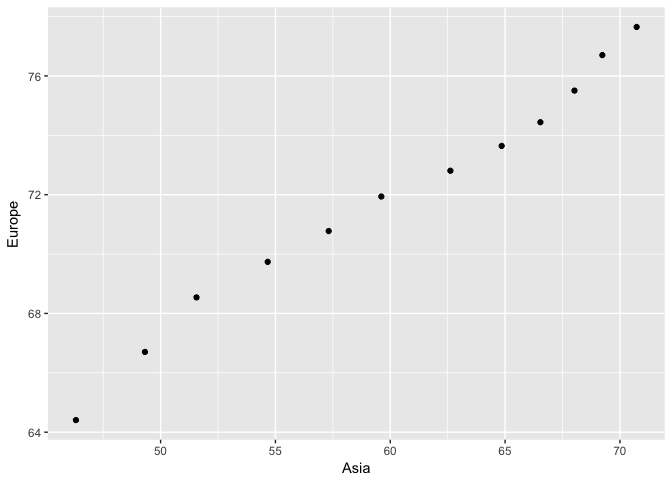
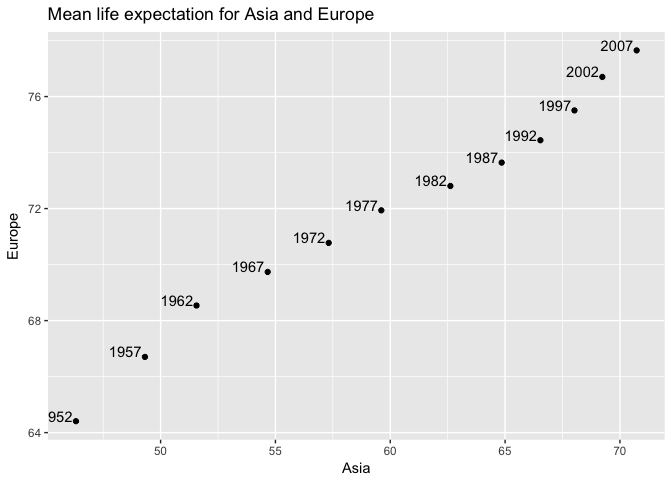
some change

diff --git a/hw04/hw04.md b/hw04/hw04.md
@@ -144,7 +144,7 @@ Is there a plot that is easier to make with the data in this shape versis the us
 
 ``` r
 out1%>%
-  ggplot(aes(x=Asia,y=Europe)) + geom_point()
+  ggplot(aes(x=Asia,y=Europe)) + geom_point()+labs(title="Mean life expectation for Asia and Europe")+geom_text(aes(label=year),hjust=1.1, vjust=0)
 ```
 
 ![](hw04_files/figure-markdown_github-ascii_identifiers/unnamed-chunk-5-1.png)
@@ -348,7 +348,7 @@ We get a similar result as with inner\_join() but the seller pizzahut survives i
     ##      <chr>      <int>
     ## 1 pizzahut       1960
 
-We keep only seller pizzahut now (and the variables found in x = sellers).
+We keep only seller pizzahut now (and the variables found in x = publishers).
 
 ### full\_join(hamburgeres, sellers)
 
